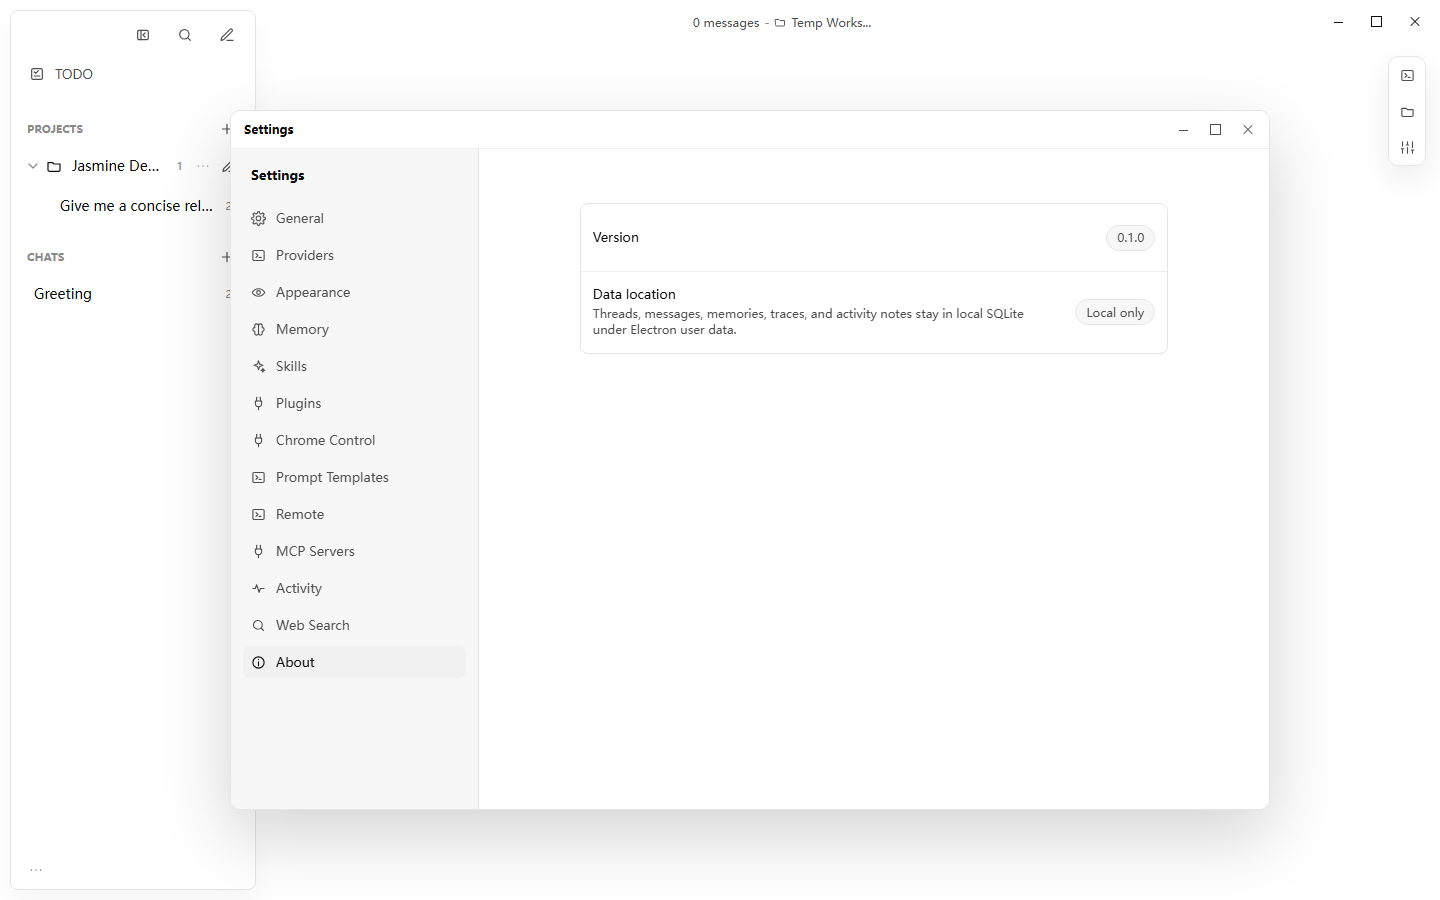
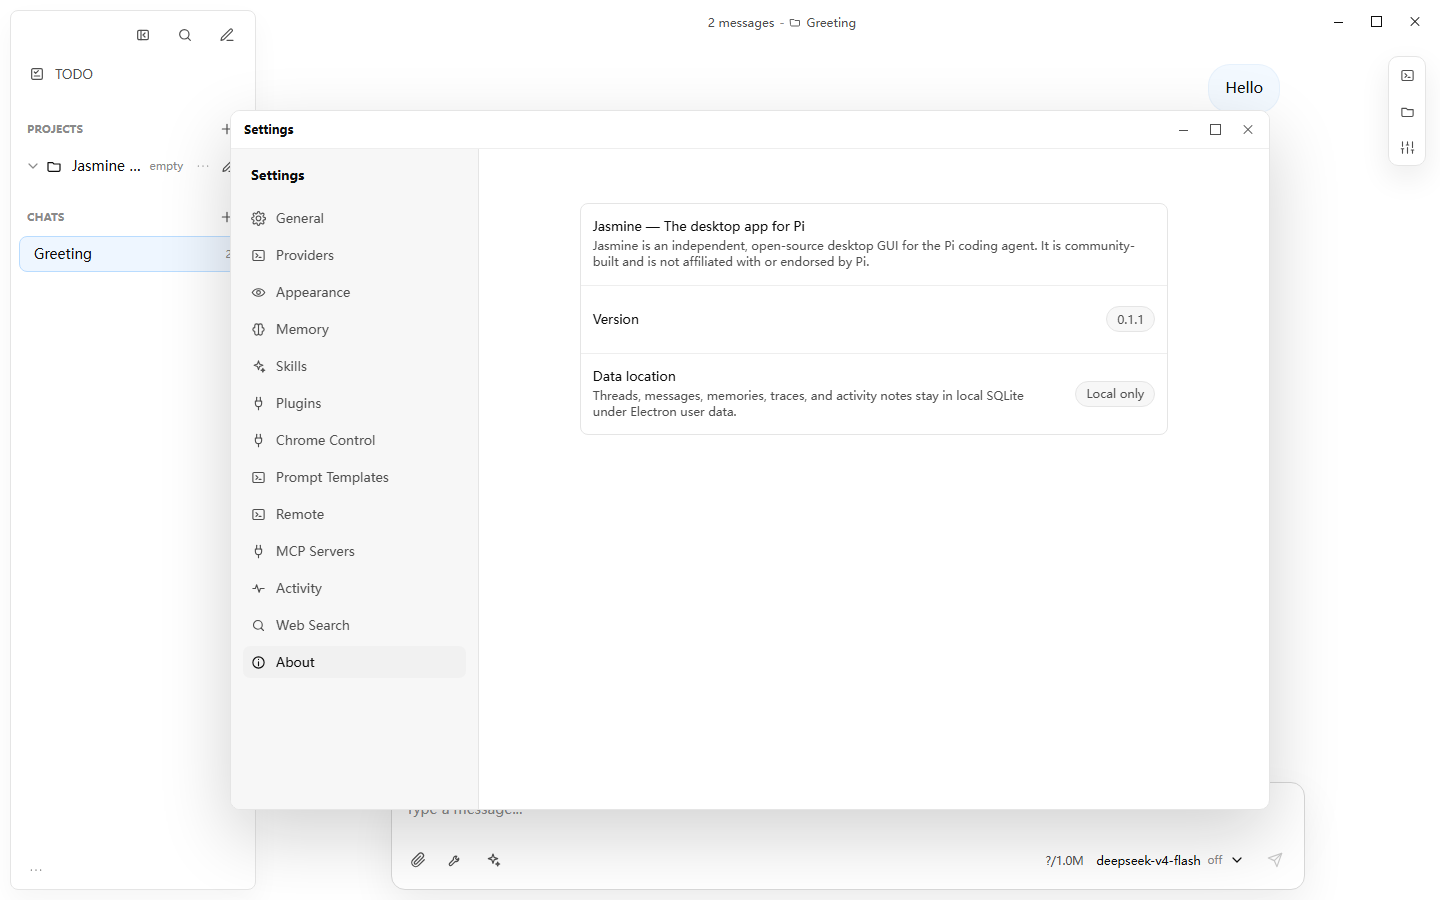
chore: position Jasmine as the desktop app for Pi

diff --git a/tests/e2e/settings.spec.ts b/tests/e2e/settings.spec.ts
@@ -1,6 +1,7 @@
 import { expect, test } from "@playwright/test";
 import { randomUUID } from "node:crypto";
 import { access, mkdir, readFile, rm, writeFile } from "node:fs/promises";
+import { createRequire } from "node:module";
 import path from "node:path";
 import {
   baseLaunchEnv,
@@ -45,6 +46,9 @@ import {
   waitForChildExit,
   waitForStableAssistant
 } from "./helpers";
+
+const require = createRequire(import.meta.url);
+const packageMetadata = require("../../package.json") as { version: string };
 
 test.describe("Jasmine settings", () => {
   let harness: HarnessApp;
@@ -214,6 +218,7 @@ test.describe("Jasmine settings", () => {
   test("settings nav reaches memory, activity, web search, plugins, and about sections", async () => {
     const { page } = harness;
 
+    await expect(page).toHaveTitle("Jasmine — The desktop app for Pi");
     await openSettings(page, "Memory");
     await expect(page.locator(".settings-subnav")).toHaveCount(0);
     await expect(page.locator(".settings-detail")).toContainText("Saved memories");
@@ -230,6 +235,10 @@ test.describe("Jasmine settings", () => {
     await expect(page.locator(".settings-detail")).toContainText("Pi Web Access");
     await page.locator(".settings-nav").getByRole("button", { name: "About" }).click();
     await expect(page.locator(".settings-subnav")).toHaveCount(0);
+    await expect(page.locator(".settings-detail")).toContainText("Jasmine — The desktop app for Pi");
+    await expect(page.locator(".settings-detail")).toContainText("independent, open-source desktop GUI for the Pi coding agent");
+    await expect(page.locator(".settings-detail")).toContainText("not affiliated with or endorsed by Pi");
+    await expect(page.locator(".settings-state-pill").first()).toHaveText(packageMetadata.version);
     await expect(page.locator(".settings-detail")).toContainText("Data location");
   });
 
@@ -312,6 +321,10 @@ test.describe("Jasmine settings", () => {
     await page.locator(".settings-nav").getByRole("button", { name: "通用" }).click();
     await expect(page.locator(".settings-detail")).toContainText("终端 Shell");
     await expect(page.locator('.settings-detail select[aria-label="界面语言"]')).toHaveValue("zh");
+    await page.locator(".settings-nav").getByRole("button", { name: "关于" }).click();
+    await expect(page.locator(".settings-detail")).toContainText("Jasmine — Pi 的桌面应用");
+    await expect(page.locator(".settings-detail")).toContainText("面向 Pi coding agent 的独立开源桌面 GUI");
+    await expect(page.locator(".settings-detail")).toContainText("与 Pi 官方无隶属或背书关系");
     await page.locator(".settings-window-control.close").click();
     await expect(page.locator(".settings-panel")).toBeHidden();
     await expect(page.locator(".empty-state h1")).toHaveText("\u8a00\u5df1");

diff --git a/src/renderer/i18n.tsx b/src/renderer/i18n.tsx
@@ -461,7 +461,8 @@ const dictionaries = {
     "settings.activity.captureDescription": "Window titles: {windowTitles}; screenshots: {screenshots}; retention {days} days.",
     "settings.activity.allowedLater": "allowed later",
     "settings.about.title": "About Jasmine",
-    "settings.about.description": "Jasmine is a local-first AI command center.",
+    "settings.about.positioning": "Jasmine — The desktop app for Pi",
+    "settings.about.description": "Jasmine is an independent, open-source desktop GUI for the Pi coding agent. It is community-built and is not affiliated with or endorsed by Pi.",
     "settings.about.version": "Version",
     "settings.about.versionDescription": "Migration build for local desktop use.",
     "settings.about.dataLocation": "Data location",
@@ -1120,7 +1121,8 @@ const dictionaries = {
     "settings.activity.captureDescription": "窗口标题：{windowTitles}；截图：{screenshots}；保留 {days} 天。",
     "settings.activity.allowedLater": "稍后允许",
     "settings.about.title": "关于 Jasmine",
-    "settings.about.description": "Jasmine 是本地优先的 AI 指挥中心。",
+    "settings.about.positioning": "Jasmine — Pi 的桌面应用",
+    "settings.about.description": "Jasmine 是面向 Pi coding agent 的独立开源桌面 GUI，由社区构建，与 Pi 官方无隶属或背书关系。",
     "settings.about.version": "版本",
     "settings.about.versionDescription": "本地桌面迁移构建。",
     "settings.about.dataLocation": "数据位置",

diff --git a/src/renderer/components/settings/LocalSettingsPage.tsx b/src/renderer/components/settings/LocalSettingsPage.tsx
@@ -43,6 +43,7 @@ import DEFAULT_BRAND_LOGO_URL from "../../assets/jasmine-logo.png";
 import { Button, Select, TextArea, TextInput } from "../ui";
 import { BrainIcon, EditIcon, ImageIcon, RefreshIcon, TerminalIcon } from "../icons/Icons";
 import { ExecutablePickerField, SettingsActions, SettingsListRow, SettingsPage, SettingsRow, SettingsSection } from "./SettingsLayout";
+import packageMetadata from "../../../../package.json";
 
 export function LocalSettingsPage(props: {
   section: Exclude<SettingsSectionKey, "providers" | "remote">;
@@ -260,9 +261,15 @@ export function LocalSettingsPage(props: {
         <section className="settings-group">
           <div className="settings-row">
             <div>
+              <strong>{t("settings.about.positioning")}</strong>
+              <small>{t("settings.about.description")}</small>
+            </div>
+          </div>
+          <div className="settings-row">
+            <div>
               <strong>{t("settings.about.version")}</strong>
             </div>
-            <span className="settings-state-pill">0.1.0</span>
+            <span className="settings-state-pill">{packageMetadata.version}</span>
           </div>
           <div className="settings-row">
             <div>

diff --git a/index.html b/index.html
@@ -3,7 +3,8 @@
   <head>
     <meta charset="UTF-8" />
     <meta name="viewport" content="width=device-width, initial-scale=1.0" />
-    <title>Jasmine</title>
+    <title>Jasmine — The desktop app for Pi</title>
+    <meta name="description" content="Jasmine is an independent desktop GUI for the Pi coding agent." />
     <script>
       try {
         const cached = JSON.parse(localStorage.getItem("jasmine.appSettings.startup") || "null");

diff --git a/src/main/main.ts b/src/main/main.ts
@@ -79,7 +79,7 @@ function createWindow() {
     height: 800,
     minWidth: 840,
     minHeight: 600,
-    title: "Jasmine",
+    title: "Jasmine — The desktop app for Pi",
     titleBarStyle: "hidden",
     resizable: true,
     movable: true,

diff --git a/README.md b/README.md
@@ -1,16 +1,20 @@
 # Jasmine
 
-Jasmine (**Just Another Self Mine**) is a local-first desktop workspace for AI-assisted chat, projects, tools, and personal context. The application is built with Electron, React, TypeScript, Pi, JSONL session files, and SQLite.
+### The desktop app for Pi
+
+Jasmine is an independent, open-source desktop GUI for the Pi coding agent, bringing Pi-compatible sessions, terminal workflows, skills, extensions, and agent interactions into a modern desktop app.
+
+> Jasmine is a community-built project and is not affiliated with or endorsed by Pi.
 
 ![Jasmine main workspace](docs/assets/screenshots/main.png)
 
 ## Features
 
-- Persistent local threads, messages, drafts, projects, TODOs, memories, and activity records.
-- Multiple OpenAI-compatible providers with model discovery and per-model options.
-- Rich chat rendering, attachments, prompt templates, skills, plugins, MCP servers, remote shells, and local project context.
-- Optional Chrome integration for user-directed browser automation.
-- English and Chinese interface copy, appearance settings, Spotlight launcher, and a structured UI test harness.
+- **Pi Sessions** — keep Pi-compatible JSONL as the canonical conversation record, with persistent local threads, drafts, projects, search, and session import.
+- **Desktop GUI for Pi** — use rich chat, attachments, TODOs, memories, activity, and project context without leaving the desktop app.
+- **Pi Skills & Extensions** — work with reusable skills, prompt templates, package plugins, MCP servers, web access, and optional Chrome integration.
+- **Integrated Terminal** — run project terminals and remote shells alongside coding-agent conversations.
+- **Flexible models** — connect multiple OpenAI-compatible providers with model discovery and per-model options.
 
 Jasmine stores application data locally, but configured AI providers, web search tools, MCP servers, remote hosts, and browser automation can send data outside the computer. Review each integration before enabling it.
 
@@ -68,11 +72,13 @@ The example above uses two real model turns and opens the captured conversation 
 
 ## Install on Windows
 
-Download the current x64 installer from [GitHub Releases](https://github.com/ArtificialNotImbecile/jasmine/releases/latest). The `v0.1.1` installer is not code-signed, so Windows may show a SmartScreen warning. Verify the published SHA-256 checksum before running it.
+Download the current x64 installer from [GitHub Releases](https://github.com/ArtificialNotImbecile/pi-desktop/releases/latest). The `v0.1.1` installer is not code-signed, so Windows may show a SmartScreen warning. Verify the published SHA-256 checksum before running it.
 
 ## Run locally
 
 ```powershell
+git clone https://github.com/ArtificialNotImbecile/pi-desktop.git
+cd pi-desktop
 npm.cmd ci
 npm.cmd run build
 npm.cmd start
@@ -114,6 +120,10 @@ Run `npm.cmd run test:e2e` for the full Electron suite in background/off-screen 
 Regenerate the README screenshots and real-model taxonomy GIF with `npm.cmd run readme:capture`. This command uses `DEEPSEEK_API_KEY` for two live requests. Build the Windows installer with `npm.cmd run dist:win` and validate the unpacked application with `npm.cmd run test:packaged`.
 
 See [docs/harness.md](docs/harness.md) for the test map and verification policy.
+
+## Documentation
+
+Start with the [Jasmine documentation](docs/README.md) for Pi session behavior, storage, reasoning context, and desktop development workflows.
 
 ## Contributing and security
 

diff --git a/docs/ui_inventory.md b/docs/ui_inventory.md
@@ -8,7 +8,7 @@ Checked rows have reproducible automated evidence. Add a new row for a new major
 | [x] | CHAT-001 | Composer and active chat | Rich editing, commands, attachments, streaming, queueing, stopping, editing, and regeneration work; context usage matches Pi's JSONL usage, trailing-message estimate, and post-compaction unknown state. | `tests/e2e/composer.spec.ts`, `tests/e2e/chat-runtime.spec.ts`, `tests/unit/pi-context-usage.mjs` |
 | [x] | THREAD-001 | Threads and projects | Threads, drafts, project scope, paging, search, and deletion persist correctly. | `tests/e2e/threads.spec.ts` |
 | [x] | PROVIDER-001 | Providers and models | Provider setup, discovery, testing, selection, model labels, and options expose clear state. | `tests/e2e/providers.spec.ts` |
-| [x] | SETTINGS-001 | Settings | General, appearance, brand, language, provider, integration, and window-state controls save visibly. | `tests/e2e/settings.spec.ts` |
+| [x] | SETTINGS-001 | Settings | General, appearance, brand, language, provider, integration, and window-state controls save visibly; About identifies Jasmine as the independent desktop app for Pi and shows package metadata. | `tests/e2e/settings.spec.ts` |
 | [x] | PANEL-001 | Work panels | Memory, activity, terminal, artifacts, context, and search panels retain correct ownership and state. Context Taxonomy refreshes as soon as the completed request is persisted, shows every request in the latest user task, renders each wire part once, preserves unknown fields in wire order as visible `unclassified` entries, auto-expands inner parts with their message, reports reasoning-policy validation, and loads sanitized raw JSON lazily. | `tests/e2e/panels.spec.ts`, `tests/unit/pi-runtime-equivalence.mjs`, `tests/unit/database-smoke.mjs` |
 | [x] | INTEGRATION-001 | Integrations | MCP, remote SSH, skills, prompt templates, and package plugins are manageable without exposing secrets. | `tests/e2e/integrations.spec.ts` |
 | [x] | RENDER-001 | Message rendering | Markdown, code, native thinking, DeepSeek tool preambles, tools, images, traces, and actions are readable and accessible; live agent work stays visible while settled work collapses into a duration recap with the final answer left visible. | `tests/e2e/rendering.spec.ts`, `tests/e2e/chat-runtime.spec.ts` |

diff --git a/docs/README.md b/docs/README.md
@@ -1,0 +1,27 @@
+# Jasmine documentation
+
+### The desktop app for Pi
+
+Jasmine is an independent, open-source desktop GUI for the Pi coding agent. It combines Pi-compatible sessions, coding-agent interactions, skills, extensions, and integrated terminal workflows in a modern desktop app.
+
+Jasmine is a community-built project and is not affiliated with or endorsed by Pi.
+
+## Guides
+
+- [Pi session storage](session_storage.md) — canonical JSONL history, SQLite projections, branching, and recovery.
+- [Import Pi sessions](pi_session_import.md) — preview and import existing Pi coding-agent sessions.
+- [Reasoning context retention](reasoning_context_retention.md) — provider-specific reasoning replay behavior.
+- [UI harness](harness.md) — build, test, visual inspection, and release verification.
+- [UI inventory](ui_inventory.md) — visible product surfaces and their automated evidence.
+- [Workflow inventory](workflow_inventory.md) — multi-step desktop workflows and coverage.
+
+## Development
+
+From the `pi-desktop` repository root on Windows:
+
+```powershell
+npm.cmd ci
+npm.cmd run build
+npm.cmd run test:unit
+npm.cmd run test:e2e:smoke
+```
